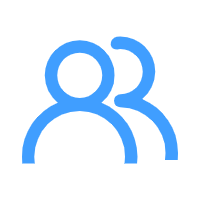
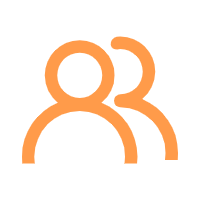
fix: 修改配色

Changed region(s): [[0.09, 0.18, 0.9, 0.84]]

diff --git a/src/components/TimeLine.vue b/src/components/TimeLine.vue
@@ -83,7 +83,7 @@ ul.timeline-wrapper {
     .out-circle {
       width: 16px;
       height: 16px;
-      background: rgba(14, 116, 218, 0.3);
+      background: #ff9b4a;
       box-shadow: 0px 4px 12px 0px rgba(0, 0, 0, 0.4);
       /*opacity: 0.1;*/
       border-radius: 50%;
@@ -94,7 +94,7 @@ ul.timeline-wrapper {
         width: 8px;
         height: 8px;
         margin: 0 auto;
-        background: rgba(14, 116, 218, 1);
+        background: #ff9b4a;
         border-radius: 50%;
         box-shadow: 0px 4px 12px 0px rgba(0, 0, 0, 0.1);
       }
@@ -112,8 +112,8 @@ ul.timeline-wrapper {
     .long-line {
       // width: 300px;
       height: 2px;
-      background: rgba(14, 116, 218, 0.2);
-      box-shadow: 0px 4px 12px 0px rgba(0, 0, 0, 0.3);
+      background: #ff9b4a;
+      box-shadow: 0px 4px 12px 0px #ff9b4a;
       display: flex;
       flex-direction: revert;
       justify-content: space-around;
@@ -128,14 +128,14 @@ ul.timeline-wrapper {
           align-items: center;
           .children-line-box {
             width: 0px;
-            border-left: 1px solid rgba(14, 116, 218, 0.3);
+            border-left: 1px solid #ff9b4a;
           }
           .children-box {
             flex-wrap: wrap;
             display: flex;
             justify-content: center;
             align-items: center;
-            border: 1px solid rgba(14, 116, 218, 0.3);
+            border: 1px solid #ff9b4a;
             white-space: break-spaces;
             text-align: center;
             padding: 5px;

diff --git a/src/components/Customer.vue b/src/components/Customer.vue
@@ -2,7 +2,8 @@
   <div class="customer">
     <Title title="客户案例" abstract="OUR CUSTOMERS" />
     <ul class="list">
-      <i class="item" v-for="(item,index) in 10" :key="index"><img src="http://www.supermenus.cn/assets/coperation/2.jpg" alt=""></i>
+      <i class="item" v-for="(item, index) in 10" :key="index"><img src="http://www.supermenus.cn/assets/coperation/2.jpg"
+          alt=""></i>
     </ul>
   </div>
 </template>
@@ -24,26 +25,29 @@ export default {
   padding: 50px 100px;
   background-color: #f3f7fd;
 }
+
 .list {
   display: flex;
   flex-direction: row;
   flex-wrap: wrap;
   justify-content: center;
 }
+
 .item {
   width: 280px;
   height: 210px;
   /* background-color: pink; */
   margin: 10px;
 }
+
 .item img {
   width: 100%;
   height: 100%;
   border: 2px solid #fff;
   box-shadow: 0 0 20px #fff;
 }
+
 .item img:hover {
-  border: 2px solid #b0d2f5;
-   box-shadow: 0 0 20px #b0d2f5;
-}
-</style>
+  border: 2px solid #ffbf8b;
+  box-shadow: 0 0 20px #ffbf8b;
+}</style>

diff --git a/src/components/Top.vue b/src/components/Top.vue
@@ -71,7 +71,7 @@ export default {
 }
 .navigation li a:hover,
 .selectLink {
-  color: #409eff;
+  color: #ff9b4a;
   cursor: default;
 }
 .freeUse{
@@ -80,12 +80,12 @@ export default {
   height: 32px;
   font-weight: 900;
   line-height: 26px;
-  border: 2px solid #409eff;
+  border: 2px solid #ff9b4a;
   border-radius: 100px;
-  color: #409eff;
+  color: #ff9b4a;
 }
 .freeUse:hover{
-  background-color: #409eff;
+  background-color: #ff9b4a;
   color: #fff;
 }
 </style>

diff --git a/src/views/Cooperation.vue b/src/views/Cooperation.vue
@@ -110,17 +110,17 @@ export default {
 }
 
 .left .content button {
-  background-color: #409eff;
+  background-color: #ff9b4a;
   width: 166px;
   height: 44px;
   font-weight: 900;
   line-height: 26px;
-  border: 2px solid #409eff;
+  border: 2px solid #ff9b4a;
   border-radius: 100px;
   color: #fff;
 }
 
 .left .content button:hover {
   background-color: #fff;
-  color: #409eff;
+  color: #ff9b4a;
 }</style>

diff --git a/src/views/DownLoad.vue b/src/views/DownLoad.vue
@@ -87,17 +87,17 @@ export default {
 }
 
 .download {
-  background-color: #409eff;
+  background-color: #ff9b4a;
   width: 160px;
   height: 44px;
   font-weight: 900;
   line-height: 26px;
-  border: 2px solid #409eff;
+  border: 2px solid #ff9b4a;
   border-radius: 100px;
   color: #fff;
 }
 .download:hover {
   background-color: #fff;
-  color: #409eff;
+  color: #ff9b4a;
 }
 </style>

diff --git a/src/components/Form.vue b/src/components/Form.vue
@@ -137,13 +137,13 @@ export default {
   align-items: flex-start;
 }
 .freeUse {
-  background-color: #409eff;
+  background-color: #ff9b4a;
   width: 40%;
   height: 50px;
   font-size: 15px;
   font-weight: 900;
   line-height: 26px;
-  border: 2px solid #409eff;
+  border: 2px solid #ff9b4a;
   border-radius: 100px;
   color: #fff;
 }

diff --git a/src/components/Time.vue b/src/components/Time.vue
@@ -162,4 +162,5 @@ export default {
   align-items: center;
   flex-direction: column;
 }
+
 </style>
